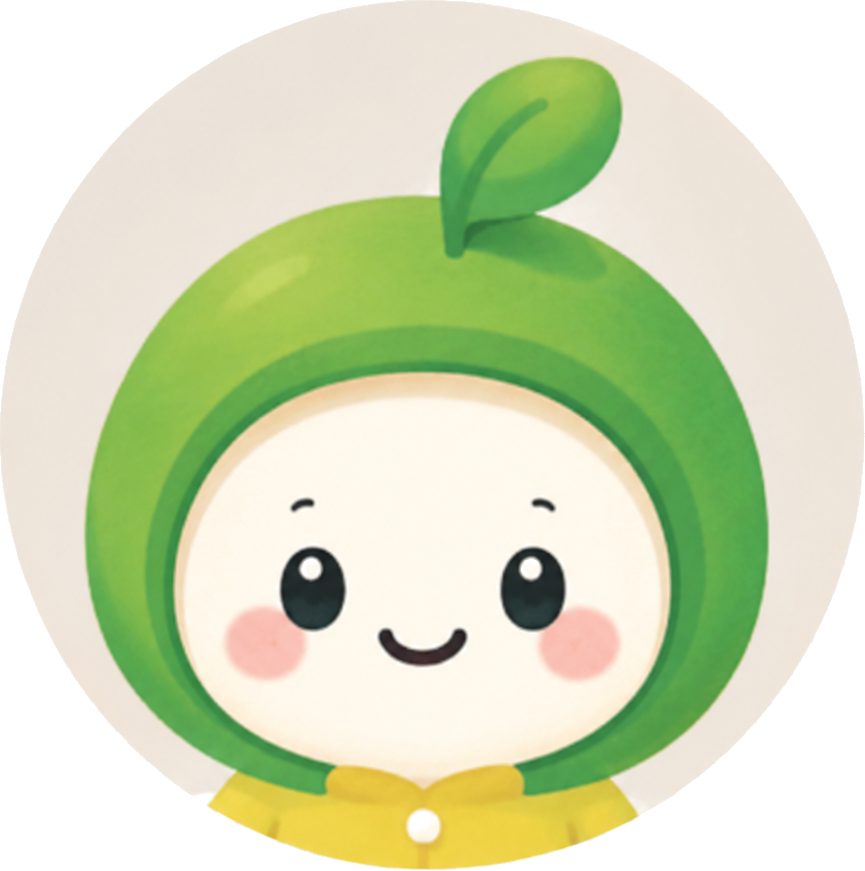
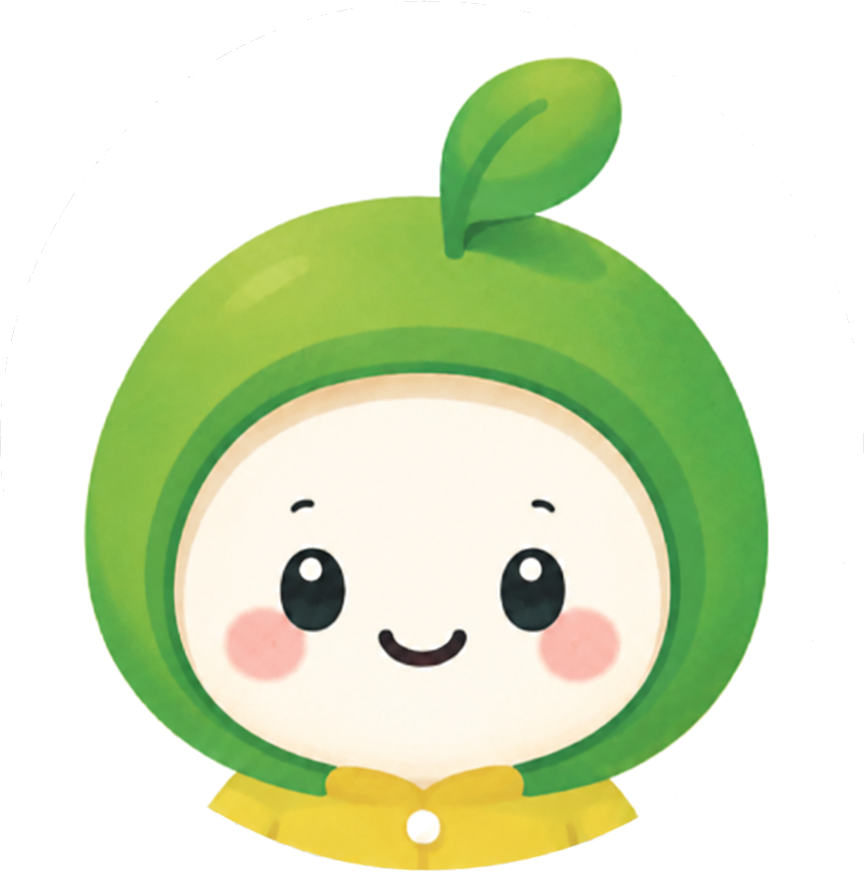
style(ai): AI 대화 모달 마스코트와 하단 탐색 아이콘 정비

diff --git a/frontend/src/components/farmflate/AIChatModal.tsx b/frontend/src/components/farmflate/AIChatModal.tsx
@@ -160,13 +160,10 @@ export const AIChatModal: React.FC<AIChatModalProps> = ({
                 <div>
                   <div style={{ display: 'flex', flexDirection: 'column', alignItems: 'center', textAlign: 'center', marginBottom: 16 }}>
                     <img
-                      src="/svg-assets/brand/mascot/guide.svg"
+                      src="/assets/ai-chat-mascot.png"
                       alt="Farmflate AI 캐릭터"
-                      style={{ width: 135, height: 110, objectFit: 'contain', marginBottom: 6 }}
+                      style={{ width: 150, height: 100, objectFit: 'contain', marginBottom: 6 }}
                     />
-                    <div style={{ color: '#177043', fontSize: '1.2rem', fontWeight: 900, marginBottom: 2 }}>
-                      Farmflate AI
-                    </div>
                     <h1 style={{ fontSize: '1.45rem', fontWeight: 900, color: '#191F28', margin: '0 0 4px 0', lineHeight: 1.2 }}>
                       무엇을 도와드릴까요?
                     </h1>

diff --git a/frontend/src/components/common/BottomNavigation.tsx b/frontend/src/components/common/BottomNavigation.tsx
@@ -1,5 +1,5 @@
 import React from 'react';
-import { Home, Sprout, Users, User } from 'lucide-react';
+import { Home, Sprout, Users } from 'lucide-react';
 import type { TabState } from '../../types/farmflate';
 
 interface BottomNavigationProps {
@@ -56,9 +56,6 @@ export const BottomNavigation: React.FC<BottomNavigationProps> = ({
         onClick={() => onTabChange('settings')}
         className={`nav-item ${activeTab === 'settings' ? 'active' : ''}`}
       >
-        <div style={{ width: 24, height: 24, display: 'flex', alignItems: 'center', justifyContent: 'center' }}>
-          <User size={22} color={activeTab === 'settings' ? '#2FA86A' : '#8E9892'} strokeWidth={activeTab === 'settings' ? 2.5 : 2} />
-        </div>
         <span>마이</span>
       </button>
     </nav>
